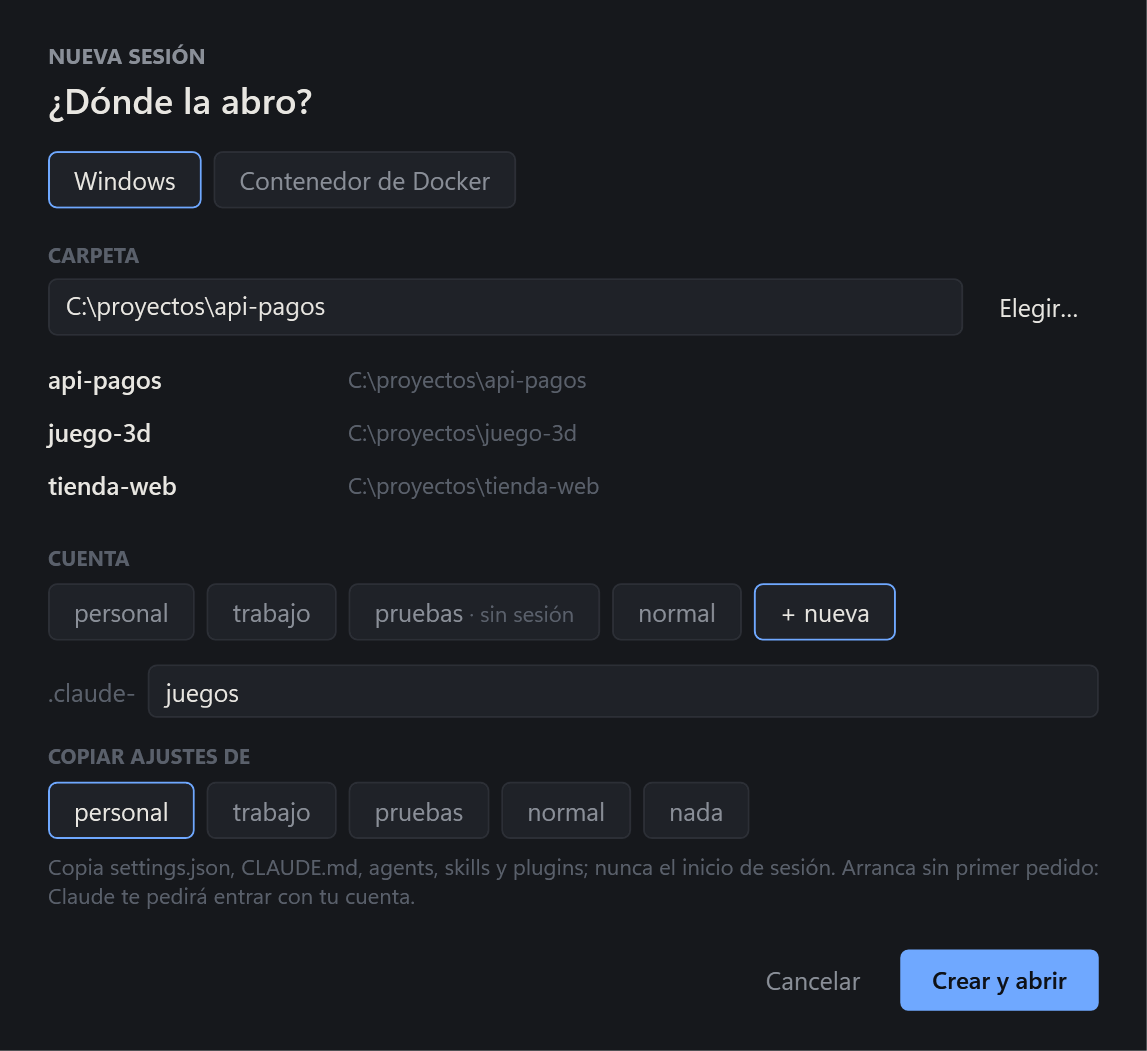
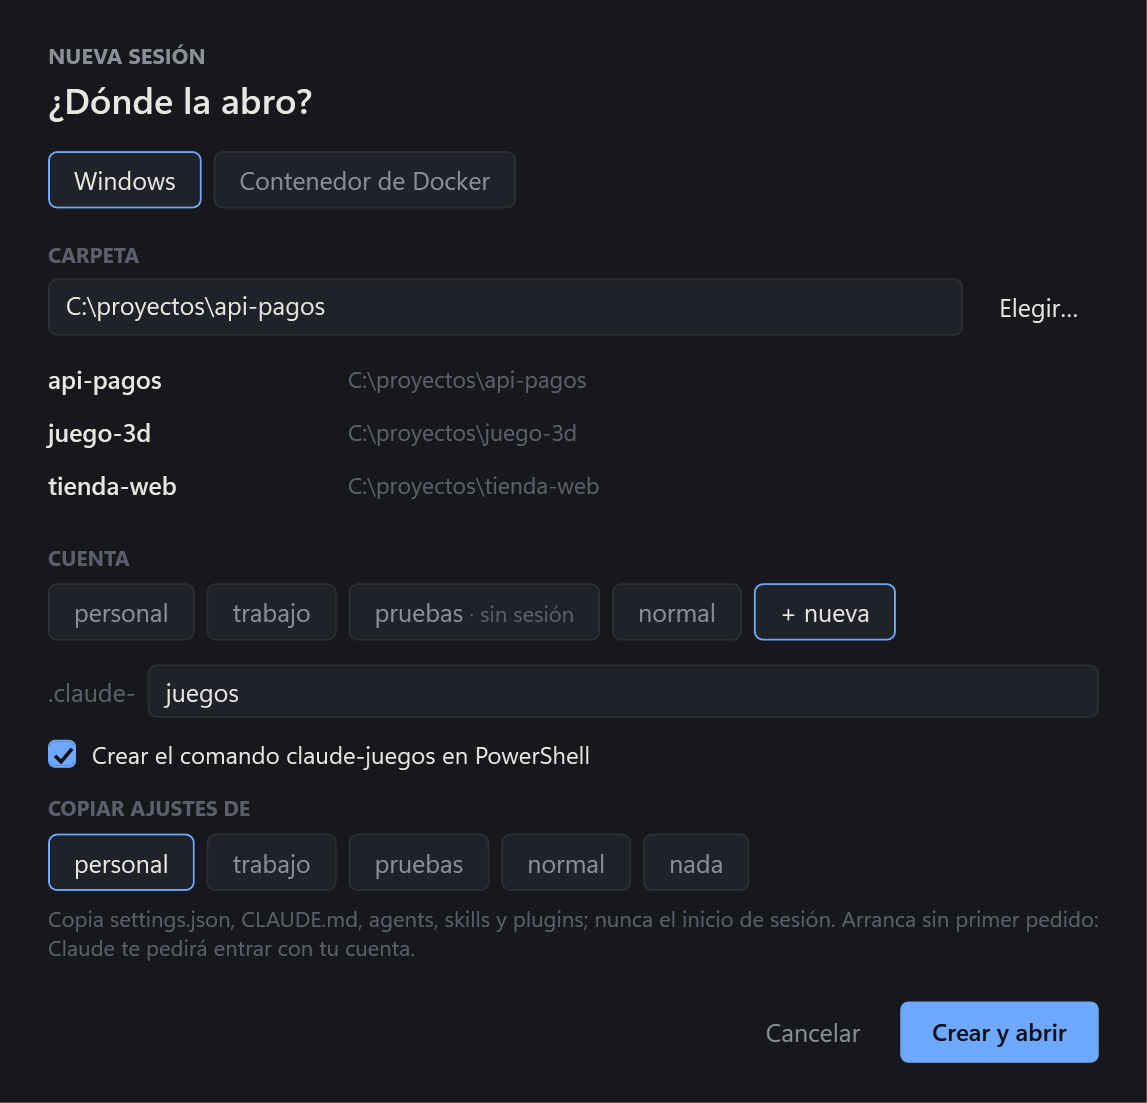
Crear el comando claude-<nombre> en PowerShell al crear una cuenta
Casilla marcada por defecto en «+ nueva»: añade al final del perfil de
Windows PowerShell (y al de PowerShell 7 si está su carpeta) la misma
función que se escribe a mano, sin repetirla si ya existe y respetando
la codificación del perfil (UTF-8 con o sin BOM, UTF-16).

diff --git a/src/Herdview/Tema.xaml b/src/Herdview/Tema.xaml
@@ -168,6 +168,38 @@
         </Setter>
     </Style>
 
+    <!-- Casilla de sí/no: cuadro con borde que se rellena de azul con la marca. -->
+    <Style x:Key="Casilla" TargetType="CheckBox">
+        <Setter Property="Foreground" Value="{StaticResource BrTenue}" />
+        <Setter Property="Cursor" Value="Hand" />
+        <Setter Property="Template">
+            <Setter.Value>
+                <ControlTemplate TargetType="CheckBox">
+                    <StackPanel Orientation="Horizontal" Background="Transparent">
+                        <Border x:Name="Cuadro" Width="14" Height="14" CornerRadius="3" BorderThickness="1"
+                                BorderBrush="{StaticResource BrBorde}" Background="{StaticResource BrSuperficie}"
+                                VerticalAlignment="Center">
+                            <Path x:Name="Marca" Data="M 2.5,7 L 5.5,10 L 11,3.5" Stroke="#0E1116" StrokeThickness="1.8"
+                                  Visibility="Collapsed" />
+                        </Border>
+                        <ContentPresenter Margin="8,0,0,0" VerticalAlignment="Center" />
+                    </StackPanel>
+                    <ControlTemplate.Triggers>
+                        <Trigger Property="IsChecked" Value="True">
+                            <Setter TargetName="Cuadro" Property="Background" Value="{StaticResource BrTrabajando}" />
+                            <Setter TargetName="Cuadro" Property="BorderBrush" Value="{StaticResource BrTrabajando}" />
+                            <Setter TargetName="Marca" Property="Visibility" Value="Visible" />
+                            <Setter Property="Foreground" Value="{StaticResource BrTexto}" />
+                        </Trigger>
+                        <Trigger Property="IsMouseOver" Value="True">
+                            <Setter TargetName="Cuadro" Property="BorderBrush" Value="{StaticResource BrTrabajando}" />
+                        </Trigger>
+                    </ControlTemplate.Triggers>
+                </ControlTemplate>
+            </Setter.Value>
+        </Setter>
+    </Style>
+
     <!-- La acción principal de un diálogo. -->
     <Style x:Key="BotonPrincipal" TargetType="Button">
         <Setter Property="Cursor" Value="Hand" />

diff --git a/src/Herdview/VentanaNueva.xaml b/src/Herdview/VentanaNueva.xaml
@@ -72,6 +72,10 @@
                          PreviewKeyDown="AlTeclear" ToolTip="Minúsculas, números y guiones" />
             </DockPanel>
             <TextBlock x:Name="ErrorCuenta" Foreground="#E0605A" FontSize="11.5" Margin="0,4,0,0" Visibility="Collapsed" />
+            <CheckBox x:Name="CrearComando" Style="{StaticResource Casilla}" IsChecked="True" Margin="0,10,0,0"
+                      ToolTip="Añade la función a tu perfil de PowerShell para abrir esta cuenta escribiendo su nombre en cualquier consola nueva">
+                <TextBlock x:Name="TextoComando" FontSize="12" Text="Crear el comando claude-… en PowerShell" />
+            </CheckBox>
             <TextBlock Text="COPIAR AJUSTES DE" FontSize="10.5" FontWeight="Bold" Foreground="{StaticResource BrApagada}"
                        Margin="0,12,0,6" />
             <WrapPanel x:Name="CopiarDe" />

diff --git a/tests/Herdview.Tests/PerfilPowerShellTests.cs b/tests/Herdview.Tests/PerfilPowerShellTests.cs
@@ -1,0 +1,111 @@
+using System;
+using System.IO;
+using System.Linq;
+using System.Text;
+using Herdview.Modelo;
+using Xunit;
+
+namespace Herdview.Tests
+{
+    public class PerfilPowerShellTests : IDisposable
+    {
+        private readonly string _documentos = Path.Combine(Path.GetTempPath(), "herdview-perfil-" + Guid.NewGuid().ToString("N"));
+
+        public PerfilPowerShellTests() => Directory.CreateDirectory(_documentos);
+
+        public void Dispose()
+        {
+            if (Directory.Exists(_documentos)) Directory.Delete(_documentos, true);
+        }
+
+        private string Perfil => Path.Combine(_documentos, "WindowsPowerShell", "Microsoft.PowerShell_profile.ps1");
+
+        private const string Hecho_a_mano =
+            "\r\n# Claude Code - cuenta alternativa (config aislada)\r\n" +
+            "function claude-alt { $env:CLAUDE_CONFIG_DIR = \"$HOME\\.claude-alt\"; claude @args }\r\n";
+
+        [Fact]
+        public void La_funcion_es_la_misma_que_se_escribe_a_mano()
+        {
+            Assert.Equal(
+                "# Claude Code - cuenta testing (config aislada)\r\n" +
+                "function claude-testing { $env:CLAUDE_CONFIG_DIR = \"$HOME\\.claude-testing\"; claude @args }\r\n",
+                PerfilPowerShell.Bloque("testing"));
+        }
+
+        [Fact]
+        public void Va_al_perfil_de_Windows_PowerShell_y_al_de_PowerShell_7_solo_si_esta_su_carpeta()
+        {
+            Assert.Equal(new[] { Perfil }, PerfilPowerShell.Rutas(_documentos));
+            Directory.CreateDirectory(Path.Combine(_documentos, "PowerShell"));
+            Assert.Equal(Path.Combine(_documentos, "PowerShell", "Microsoft.PowerShell_profile.ps1"),
+                PerfilPowerShell.Rutas(_documentos).Last());
+        }
+
+        [Fact]
+        public void Sin_perfil_lo_crea_en_UTF8_con_BOM()
+        {
+            Assert.True(PerfilPowerShell.Anadir(Perfil, "testing"));
+            byte[] bytes = File.ReadAllBytes(Perfil);
+            Assert.Equal(new byte[] { 0xEF, 0xBB, 0xBF }, bytes.Take(3));
+            Assert.Equal(PerfilPowerShell.Bloque("testing"), Encoding.UTF8.GetString(bytes, 3, bytes.Length - 3));
+        }
+
+        [Fact]
+        public void Anade_al_final_sin_tocar_lo_que_habia_ni_repetir_el_BOM()
+        {
+            Directory.CreateDirectory(Path.GetDirectoryName(Perfil)!);
+            File.WriteAllText(Perfil, Hecho_a_mano, new UTF8Encoding(true));
+            byte[] antes = File.ReadAllBytes(Perfil);
+
+            Assert.True(PerfilPowerShell.Anadir(Perfil, "testing"));
+
+            byte[] despues = File.ReadAllBytes(Perfil);
+            Assert.Equal(antes, despues.Take(antes.Length));
+            Assert.Equal("\r\n" + PerfilPowerShell.Bloque("testing"),
+                Encoding.UTF8.GetString(despues, antes.Length, despues.Length - antes.Length));
+        }
+
+        [Fact]
+        public void Si_el_perfil_no_acaba_en_salto_de_linea_lo_pone_antes()
+        {
+            Directory.CreateDirectory(Path.GetDirectoryName(Perfil)!);
+            File.WriteAllText(Perfil, "Set-Location C:\\git", new UTF8Encoding(false));
+            PerfilPowerShell.Anadir(Perfil, "testing");
+            Assert.Equal("Set-Location C:\\git\r\n\r\n" + PerfilPowerShell.Bloque("testing"), File.ReadAllText(Perfil));
+        }
+
+        [Fact]
+        public void Respeta_un_perfil_en_UTF16_como_los_que_deja_Out_File()
+        {
+            Directory.CreateDirectory(Path.GetDirectoryName(Perfil)!);
+            File.WriteAllText(Perfil, Hecho_a_mano, new UnicodeEncoding(false, true));
+            PerfilPowerShell.Anadir(Perfil, "testing");
+            byte[] bytes = File.ReadAllBytes(Perfil);
+            Assert.Equal(new byte[] { 0xFF, 0xFE }, bytes.Take(2));
+            Assert.Equal(Hecho_a_mano + "\r\n" + PerfilPowerShell.Bloque("testing"),
+                Encoding.Unicode.GetString(bytes, 2, bytes.Length - 2));
+        }
+
+        [Fact]
+        public void No_repite_un_comando_que_ya_existe_aunque_sea_a_mano()
+        {
+            Directory.CreateDirectory(Path.GetDirectoryName(Perfil)!);
+            File.WriteAllText(Perfil, Hecho_a_mano + "  Set-Alias claude-juegos claude\r\n", new UTF8Encoding(true));
+            string antes = File.ReadAllText(Perfil);
+            Assert.False(PerfilPowerShell.Anadir(Perfil, "alt"));
+            Assert.False(PerfilPowerShell.Anadir(Perfil, "juegos"));
+            Assert.Equal(antes, File.ReadAllText(Perfil));
+            Assert.True(PerfilPowerShell.Anadir(Perfil, "testing"));
+            Assert.False(PerfilPowerShell.Anadir(Perfil, "testing"));
+        }
+
+        [Fact]
+        public void Un_nombre_que_empieza_como_otro_no_cuenta_como_definido()
+        {
+            Assert.False(PerfilPowerShell.Define(Hecho_a_mano, "al"));
+            Assert.False(PerfilPowerShell.Define("function claude-alt-2 { }", "alt"));
+            Assert.False(PerfilPowerShell.Define("# function claude-alt { }", "alt"));
+        }
+    }
+}

diff --git a/src/Herdview/Modelo/PerfilPowerShell.cs b/src/Herdview/Modelo/PerfilPowerShell.cs
@@ -1,0 +1,84 @@
+using System;
+using System.Collections.Generic;
+using System.IO;
+using System.Text;
+using System.Text.RegularExpressions;
+
+namespace Herdview.Modelo
+{
+    /// <summary>El comando «claude-&lt;nombre&gt;» de una cuenta en los perfiles de PowerShell: la misma función que se escribe
+    /// a mano (pone CLAUDE_CONFIG_DIR y lanza claude). Solo añade al final del perfil; nunca toca lo que ya hay.</summary>
+    public static class PerfilPowerShell
+    {
+        /// <summary>Los perfiles donde va el comando: el de Windows PowerShell siempre y el de PowerShell 7 si está su
+        /// carpeta. <paramref name="documentos"/> es «Mis documentos» (puede estar en OneDrive).</summary>
+        public static List<string> Rutas(string documentos)
+        {
+            var rutas = new List<string> { Path.Combine(documentos, "WindowsPowerShell", "Microsoft.PowerShell_profile.ps1") };
+            if (Directory.Exists(Path.Combine(documentos, "PowerShell")))
+            {
+                rutas.Add(Path.Combine(documentos, "PowerShell", "Microsoft.PowerShell_profile.ps1"));
+            }
+            return rutas;
+        }
+
+        public static string Comando(string nombre) => "claude-" + nombre;
+
+        /// <summary>Las líneas que se añaden: un comentario y la función.</summary>
+        public static string Bloque(string nombre) =>
+            "# Claude Code - cuenta " + nombre + " (config aislada)\r\n" +
+            "function " + Comando(nombre) + " { $env:CLAUDE_CONFIG_DIR = \"$HOME\\.claude-" + nombre + "\"; claude @args }\r\n";
+
+        /// <summary>Si el texto del perfil ya define ese comando (como función o alias).</summary>
+        public static bool Define(string texto, string nombre) =>
+            Regex.IsMatch(texto, @"(?im)^\s*(function\s+|Set-Alias\s+(-Name\s+)?)" + Regex.Escape(Comando(nombre)) + @"(?![\w-])");
+
+        /// <summary>Añade el comando al perfil (lo crea si no existe). false si ya lo tenía.</summary>
+        public static bool Anadir(string perfil, string nombre)
+        {
+            if (!File.Exists(perfil))
+            {
+                Directory.CreateDirectory(Path.GetDirectoryName(perfil)!);
+                // Con BOM: Windows PowerShell lee como ANSI los .ps1 en UTF-8 sin él.
+                File.WriteAllText(perfil, Bloque(nombre), new UTF8Encoding(true));
+                return true;
+            }
+            byte[] bytes = File.ReadAllBytes(perfil);
+            Encoding codificacion = Codificacion(bytes);
+            string texto = Texto(bytes, codificacion);
+            if (Define(texto, nombre))
+            {
+                return false;
+            }
+            string antes = texto.Length == 0 ? "" : texto.EndsWith("\n") ? "\r\n" : "\r\n\r\n";
+            // Se escriben solo los bytes nuevos al final, en la codificación del fichero (sin repetir el BOM).
+            byte[] nuevo = codificacion.GetBytes(antes + Bloque(nombre));
+            using (var fichero = new FileStream(perfil, FileMode.Append, FileAccess.Write, FileShare.Read))
+            {
+                fichero.Write(nuevo, 0, nuevo.Length);
+            }
+            return true;
+        }
+
+        /// <summary>La del BOM; sin BOM, UTF-8 (lo añadido es ASCII, así que vale también si el fichero es ANSI).</summary>
+        private static Encoding Codificacion(byte[] b)
+        {
+            if (b.Length >= 2 && b[0] == 0xFF && b[1] == 0xFE)
+            {
+                return new UnicodeEncoding(false, false);
+            }
+            if (b.Length >= 2 && b[0] == 0xFE && b[1] == 0xFF)
+            {
+                return new UnicodeEncoding(true, false);
+            }
+            return new UTF8Encoding(false);
+        }
+
+        private static string Texto(byte[] b, Encoding codificacion)
+        {
+            int bom = b.Length >= 3 && b[0] == 0xEF && b[1] == 0xBB && b[2] == 0xBF ? 3
+                : codificacion is UnicodeEncoding ? 2 : 0;
+            return codificacion.GetString(b, bom, b.Length - bom);
+        }
+    }
+}

diff --git a/src/Herdview/VentanaNueva.xaml.cs b/src/Herdview/VentanaNueva.xaml.cs
@@ -73,7 +73,12 @@ namespace Herdview
             _nueva.Unchecked += (_, __) => PonerCuentaNueva(false);
             _nueva.IsChecked = _cuentas.Count == 0;
             Cuentas.Children.Add(_nueva);
-            NombreCuenta.TextChanged += (_, __) => ErrorCuenta.Visibility = Visibility.Collapsed;
+            NombreCuenta.TextChanged += (_, __) =>
+            {
+                ErrorCuenta.Visibility = Visibility.Collapsed;
+                string nombre = NombreCuenta.Text.Trim().ToLowerInvariant();
+                TextoComando.Text = "Crear el comando " + PerfilPowerShell.Comando(nombre.Length > 0 ? nombre : "…") + " en PowerShell";
+            };
             Pedido.TextChanged += (_, __) =>
                 PistaPedido.Visibility = Pedido.Text.Length == 0 ? Visibility.Visible : Visibility.Collapsed;
             Loaded += (_, __) =>
@@ -137,6 +142,8 @@ namespace Herdview
         /// <summary>El nombre de la cuenta a crear (null si se eligió una que ya existe).</summary>
         public string? CuentaNueva =>
             EnContenedor.IsChecked != true && _nueva?.IsChecked == true ? NombreCuenta.Text.Trim().ToLowerInvariant() : null;
+        /// <summary>Si la cuenta nueva lleva su comando «claude-&lt;nombre&gt;» en el perfil de PowerShell.</summary>
+        public bool CrearComandoConsola => CuentaNueva != null && CrearComando.IsChecked == true;
         /// <summary>De qué cuenta copiar los ajustes de la nueva (null = empezar de cero).</summary>
         public Cuenta? CopiarAjustesDe => _origenes.Find(r => r.IsChecked == true)?.Tag as Cuenta;
         /// <summary>Una cuenta nueva arranca sin pedido: antes viene la bienvenida de Claude y el inicio de sesión.</summary>

diff --git a/src/Herdview/App.xaml.cs b/src/Herdview/App.xaml.cs
@@ -330,6 +330,10 @@ namespace Herdview
                 {
                     MessageBox.Show(aviso, "Herdview · " + cuenta.Nombre, MessageBoxButton.OK, MessageBoxImage.Warning);
                 }
+                if (dialogo.CrearComandoConsola)
+                {
+                    CrearComando(cuenta.Nombre);
+                }
             }
             if (cuenta == null)
             {
@@ -380,6 +384,24 @@ namespace Herdview
                                           error is UnauthorizedAccessException)
             {
                 return string.Format(fallo, "¿está Python en el PATH? " + error.Message);
+            }
+        }
+
+        /// <summary>Añade «claude-&lt;nombre&gt;» a los perfiles de PowerShell; si no puede, lo avisa (la cuenta ya está creada).</summary>
+        private static void CrearComando(string nombre)
+        {
+            string documentos = Environment.GetFolderPath(Environment.SpecialFolder.MyDocuments);
+            foreach (string perfil in PerfilPowerShell.Rutas(documentos))
+            {
+                try
+                {
+                    PerfilPowerShell.Anadir(perfil, nombre);
+                }
+                catch (Exception error) when (error is IOException || error is UnauthorizedAccessException)
+                {
+                    MessageBox.Show("La cuenta está creada, pero no pude añadir el comando " + PerfilPowerShell.Comando(nombre) +
+                        " a " + perfil + ": " + error.Message, "Herdview · " + nombre, MessageBoxButton.OK, MessageBoxImage.Warning);
+                }
             }
         }
 

diff --git a/README.md b/README.md
@@ -28,7 +28,11 @@ cuáles te esperan y cuáles terminaron. Funciona igual con la terminal que con 
 - **Crear cuentas** desde el mismo diálogo («+ nueva» en Cuenta): Herdview crea `.claude-<nombre>`, si quieres con
   los ajustes de otra cuenta (`settings.json`, `CLAUDE.md`, agents, skills y plugins; nunca credenciales, identidad ni
   historial), le instala sus hooks y abre la sesión. El inicio de sesión lo haces tú en la propia sesión: Herdview no
-  toca credenciales. Las cuentas que aún no han entrado salen como «sin sesión».
+  toca credenciales. Las cuentas que aún no han entrado salen como «sin sesión». Con la casilla marcada (lo normal)
+  añade también el comando `claude-<nombre>` al final de tu perfil de PowerShell (el de Windows PowerShell y, si
+  tienes su carpeta, el de PowerShell 7), para abrir esa cuenta desde cualquier consola nueva; si el comando ya
+  existe no lo repite. Un perfil recién creado solo se carga si la directiva de ejecución lo permite
+  (`Set-ExecutionPolicy -Scope CurrentUser RemoteSigned`).
 
   ![Cuenta nueva](docs/img/nueva-cuenta.png)
 
